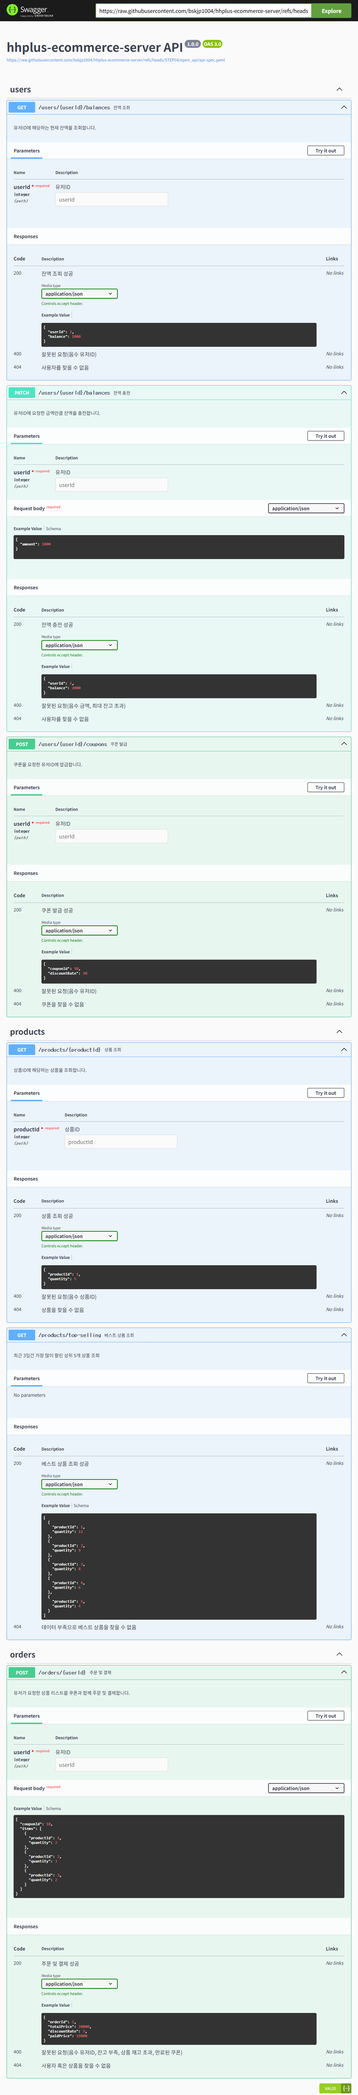
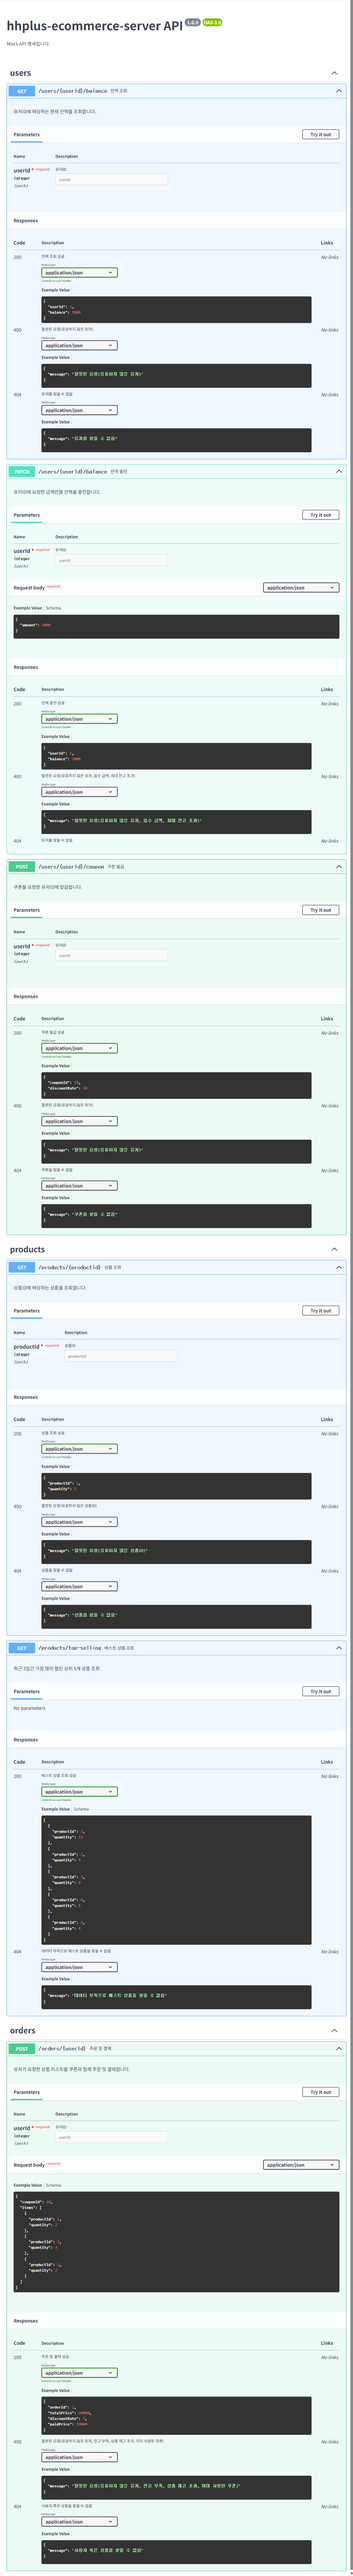
docs: API 명세서 수정(작성흐름 추가, API 표 추가, 이미지 오타 수정)

diff --git a/docs/apiSpec.md b/docs/apiSpec.md
@@ -1,4 +1,20 @@
 # API 명세서
+---
+## 작성흐름
+- `yaml`파일에 API 명세서를 작성하여 Swagger UI로 확인 가능
+- 정의 하지 않은 메소드와 실수로 구현되지 않은 메소드 구분을 위해 정의 하지 않은 메소드도 작성함
+- 터미널에 `prism mock ./open_api/api-spec.yaml` 명령어를 입력해 Mock API 서버 실행 ➡ Postman으로 API 테스트
+---
 - [API 명세서 Swagger UI로 보기](https://petstore.swagger.io/?url=https://raw.githubusercontent.com/bskjp1004/hhplus-ecommerce-server/refs/heads/STEP04/open_api/api-spec.yaml)
+
+| 메서드     | URL                       | 설명                           | 요청 파라미터 / Body                                                                                            | 응답 예시                                                                          | 응답 코드               |
+| ------- | ------------------------- | ---------------------------- | --------------------------------------------------------------------------------------------------------- | ------------------------------------------------------------------------------ | ------------------- |
+| `GET`   | `/users/{userId}/balance` | 유저 ID에 해당하는 현재 잔액 조회         | Path: `userId` (integer)                                                                                  | `{ "userId": 1, "balance": 1000 }`                                             | `200`, `400`, `404` |
+| `PATCH` | `/users/{userId}/balance` | 유저 ID에 요청한 금액만큼 잔액 충전        | Path: `userId` (integer) <br> Body: `{ "amount": 1000 }`                                                  | `{ "userId": 1, "balance": 2000 }`                                             | `200`, `400`, `404` |
+| `POST`  | `/users/{userId}/coupon`  | 요청한 유저 ID에 쿠폰 발급             | Path: `userId` (integer)                                                                                  | `{ "couponId": 10, "discountRate": 20 }`                                       | `200`, `400`, `404` |
+| `GET`   | `/products/{productId}`   | 상품 ID에 해당하는 상품 조회            | Path: `productId` (integer)                                                                               | `{ "productId": 1, "quantity": 5 }`                                            | `200`, `400`, `404` |
+| `GET`   | `/products/top-selling`   | 최근 3일간 가장 많이 팔린 상위 5개 상품 조회  | 없음                                                                                                        | `[{"productId": 1, "quantity": 12}, ...]`                                      | `200`, `404`        |
+| `POST`  | `/orders/{userId}`        | 유저가 요청한 상품 리스트와 쿠폰으로 주문 및 결제 | Path: `userId` (integer) <br> Body: `{ "couponId": 10, "items": [{"productId": 1, "quantity": 2}, ...] }` | `{ "orderId": 2, "totalPrice": 20000, "discountRate": 5, "paidPrice": 19000 }` | `200`, `400`, `404` |
+
 
 ![image](./images/swagger-ui.png)
